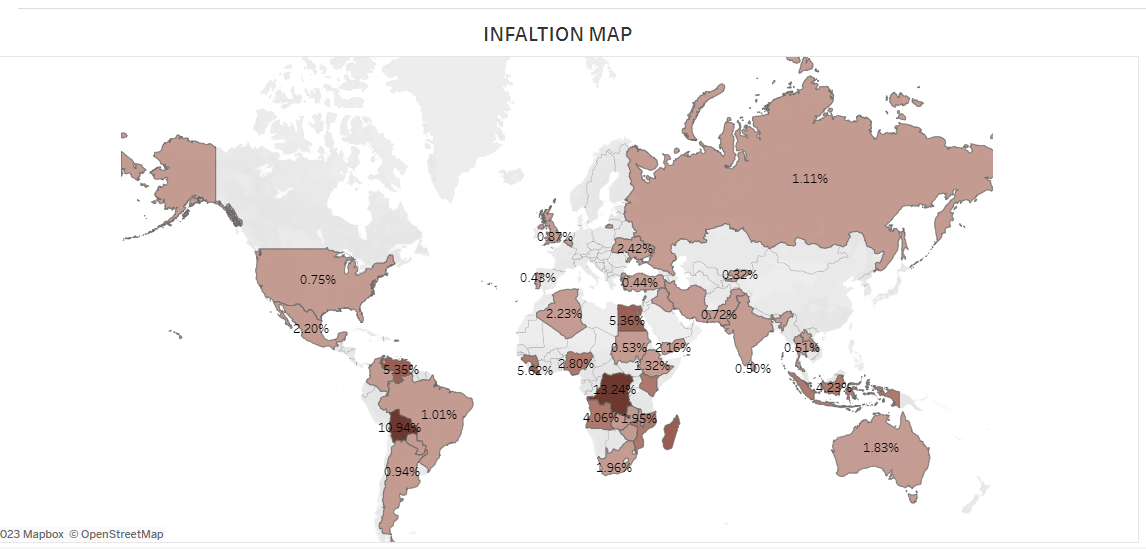
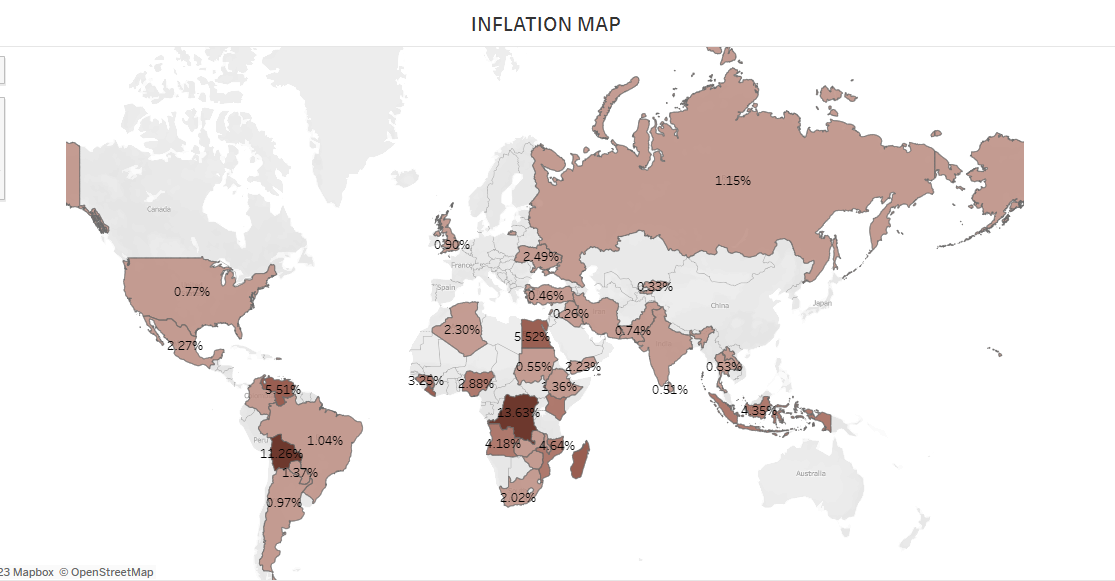
images

diff --git a/inflation.html b/inflation.html
@@ -72,13 +72,13 @@
 								<p>As you can see, you can see that inflation between the developed countries suffered less with inflation than in developing countries from 2017 to 2022.</p>
 
 								<h2>AVERAGE INFLATION</h2>
-								<div class="image" style="margin-bottom: 2em;"><img src="pics/Inflation2.png" alt="Data grid" style="max-width: 100%;"></div>
+								<div class="image" style="margin-bottom: 2em;"><img src="pics/AVGinf.png" alt="Data grid" style="max-width: 100%;"></div>
 								<p>In this diagram we see the rise from 2017 to 2022 and how developing countries received a huge spike in their inflation rates through the years</p>
 								
-								<div class="image" style="margin-bottom: 2em;"><img src="pics/Inflation3.png" alt="Data grid" style="max-width: 100%;"></div>
+								<div class="image" style="margin-bottom: 2em;"><img src="pics/map.png" alt="Data grid" style="max-width: 100%;"></div>
 								
 								<h2>INFLATION IN 2022</h2>
-								<div class="image" style="margin-bottom: 2em;"><img src="pics/inflation2022.png" alt="Data grid" style="max-width: 100%;"></div>
+								<div class="image" style="margin-bottom: 2em;"><img src="pics/2022inf.png" alt="Data grid" style="max-width: 100%;"></div>
 								<p>In here we see developing receved a huge spike in 2022 alone which inturn proves my thoery. </p>
 							</section>
 
